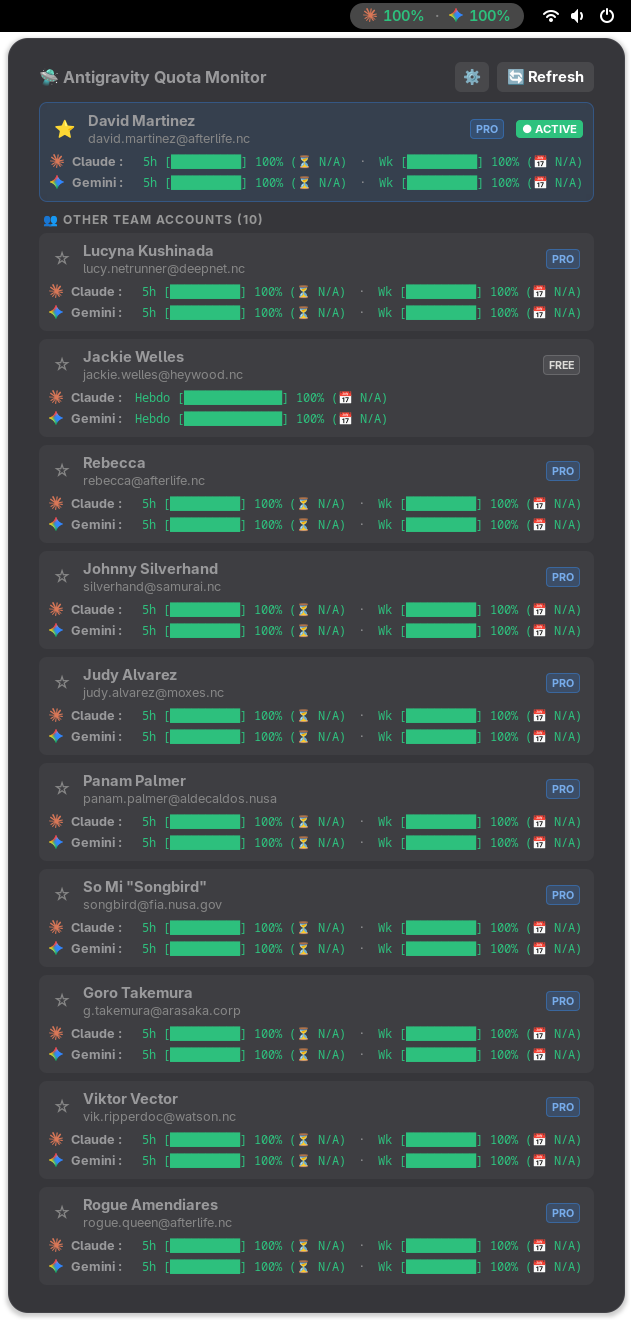
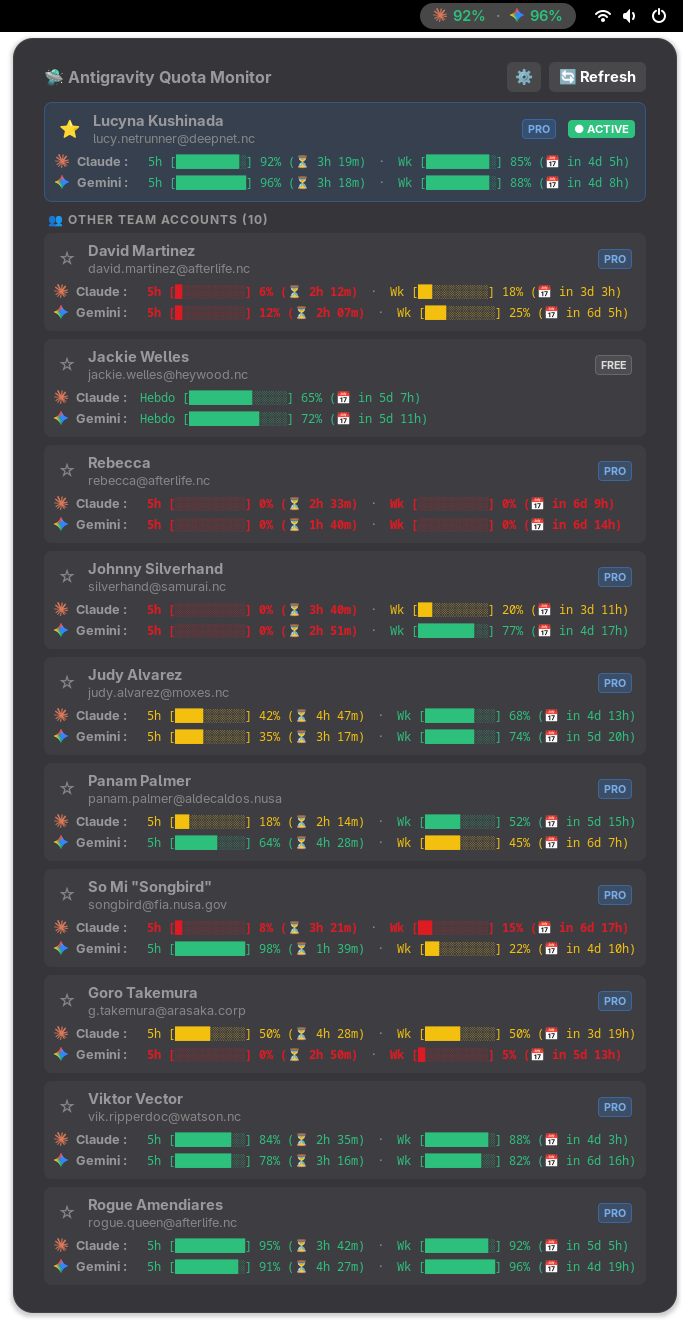
fix(cache): monitor cache.json in real time and fix effective quota calculation - Add Gio.FileMonitor to QuotaCache for instant hot-reloading on disk changes - Prevent getEffectiveWindowQuota from resetting explicit quotas to 100% when no cooldown is active - Reload disk cache before processing acco

diff --git a/src/lib/cache.js b/src/lib/cache.js
@@ -10,8 +10,57 @@ export class QuotaCache {
         this._cacheDir = GLib.build_filenamev([GLib.get_user_cache_dir(), 'gnome-antigravity']);
         this._cacheFile = GLib.build_filenamev([this._cacheDir, 'cache.json']);
         this._memoryCache = new Map();
+        this._listeners = new Set();
+        this._fileMonitor = null;
+        this._fileMonitorId = null;
+
         this._ensureCacheDir();
+        this._setupFileMonitor();
         this.loadDiskCache();
+    }
+
+    _setupFileMonitor() {
+        try {
+            const file = Gio.File.new_for_path(this._cacheFile);
+            this._fileMonitor = file.monitor_file(Gio.FileMonitorFlags.NONE, null);
+            this._fileMonitorId = this._fileMonitor.connect('changed', async (mon, f, other, eventType) => {
+                if (
+                    eventType === Gio.FileMonitorEvent.CHANGES_DONE_HINT ||
+                    eventType === Gio.FileMonitorEvent.CREATED
+                ) {
+                    await this.loadDiskCache();
+                    this._notifyListeners();
+                }
+            });
+        } catch (e) {
+            console.warn(`[Antigravity] Cache file monitor warning: ${e.message}`);
+        }
+    }
+
+    addChangeListener(callback) {
+        this._listeners.add(callback);
+    }
+
+    removeChangeListener(callback) {
+        this._listeners.delete(callback);
+    }
+
+    _notifyListeners() {
+        for (const cb of this._listeners) {
+            try {
+                cb();
+            } catch (e) {
+                console.error(`[Antigravity] Cache listener error: ${e.message}`);
+            }
+        }
+    }
+
+    destroy() {
+        if (this._fileMonitor && this._fileMonitorId) {
+            this._fileMonitor.disconnect(this._fileMonitorId);
+            this._fileMonitorId = null;
+        }
+        this._listeners.clear();
     }
 
     _ensureCacheDir() {
@@ -218,10 +267,14 @@ export class QuotaCache {
             };
         }
 
-        const timeStr = QuotaCache.formatCountdown(windowData?.resetTimestamp, isWeekly);
-        const isReady = (timeStr === 'Ready');
+        const hasReset = Boolean(windowData?.resetTimestamp);
+        const timeStr = hasReset ? QuotaCache.formatCountdown(windowData.resetTimestamp, isWeekly) : 'Ready';
+        const isExpired = hasReset && (timeStr === 'Ready');
 
-        if (isReady) {
+        const frac = (typeof windowData?.fraction === 'number') ? windowData.fraction : 1.0;
+        const pct = (typeof windowData?.pct === 'number') ? windowData.pct : Math.round(frac * 100);
+
+        if (isExpired) {
             return {
                 fraction: 1.0,
                 pct: 100,
@@ -231,14 +284,11 @@ export class QuotaCache {
             };
         }
 
-        const frac = (typeof windowData?.fraction === 'number') ? windowData.fraction : 1.0;
-        const pct = (typeof windowData?.pct === 'number') ? windowData.pct : Math.round(frac * 100);
-
         return {
             fraction: frac,
             pct: pct,
-            timeStr: timeStr,
-            isReady: false,
+            timeStr: hasReset ? timeStr : (pct === 100 ? 'Ready' : 'N/A'),
+            isReady: (pct === 100),
             available: true
         };
     }

diff --git a/src/lib/quotaEngine.js b/src/lib/quotaEngine.js
@@ -18,8 +18,14 @@ export class QuotaEngine {
         this._localTimerSourceId = null;
         this._isRefreshing = false;
 
+        this._cacheChangedListener = () => {
+            this._notifyListeners();
+        };
+        this.cache.addChangeListener(this._cacheChangedListener);
+
         // Auto-refresh when accounts list is updated (e.g. from Preferences or Session Capture)
         this._accountsChangedListener = async () => {
+            await this.cache.loadDiskCache();
             await this.refreshAllAccounts();
         };
         this.accountsManager.addChangeListener(this._accountsChangedListener);
@@ -112,6 +118,11 @@ export class QuotaEngine {
             this.accountsManager.removeChangeListener(this._accountsChangedListener);
             this._accountsChangedListener = null;
         }
+        if (this._cacheChangedListener) {
+            this.cache.removeChangeListener(this._cacheChangedListener);
+            this._cacheChangedListener = null;
+        }
+        this.cache.destroy();
         this.accountsManager.destroy();
     }
 
